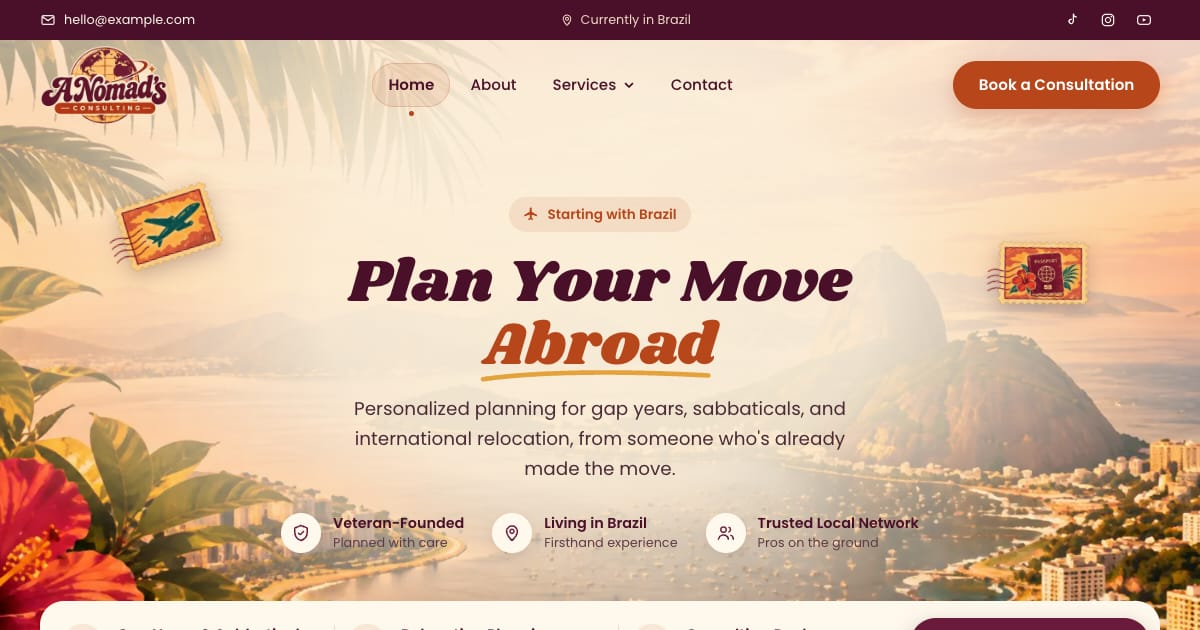
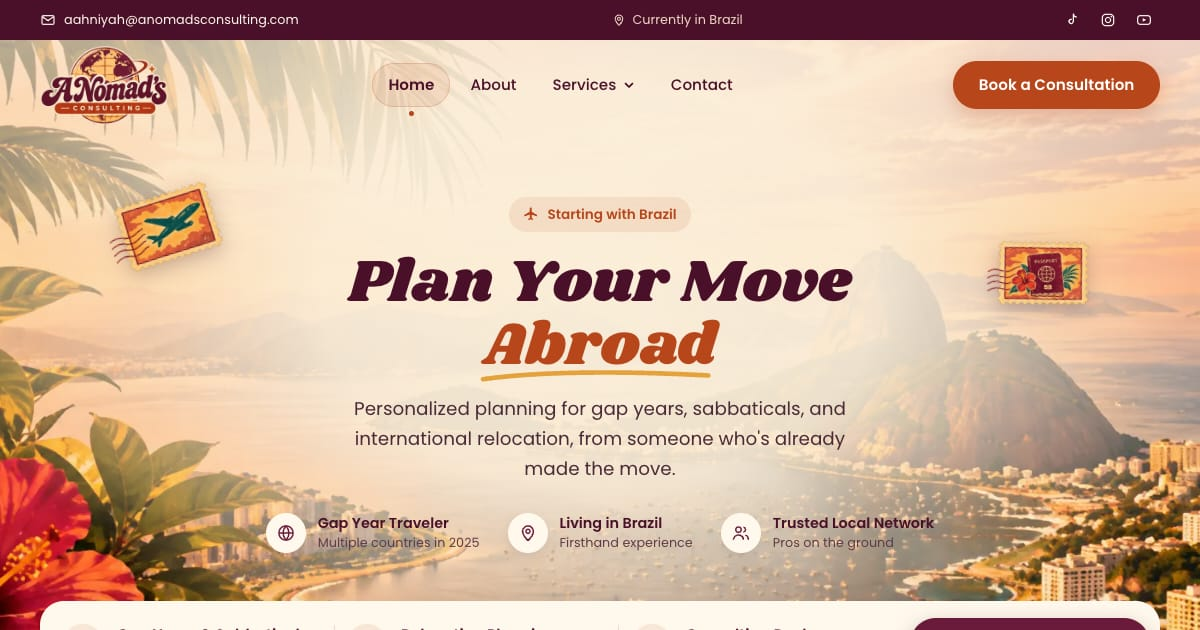
Replace Veteran-Founded trust point; refresh link preview image

Changed region(s): [[0.2158, 0.8143, 0.7708, 0.8746], [0.0617, 0.0, 0.2467, 0.0603], [0.4933, 0.0, 0.6167, 0.0603]]

diff --git a/index.html b/index.html
@@ -155,9 +155,9 @@
                     <ul class="hero__trust" data-reveal="up" data-reveal-delay="3">
                         <li class="hero__trust-item">
                             <span class="hero__trust-icon" aria-hidden="true">
-                                <svg width="20" height="20" viewBox="0 0 24 24"><path d="M12 3 4.5 6v5.5c0 4.6 3.2 8.4 7.5 9.5 4.3-1.1 7.5-4.9 7.5-9.5V6z" fill="none" stroke="currentColor" stroke-width="1.8" stroke-linejoin="round"/><path d="m8.8 12 2.2 2.2 4.2-4.4" fill="none" stroke="currentColor" stroke-width="1.8" stroke-linecap="round" stroke-linejoin="round"/></svg>
+                                <svg width="20" height="20" viewBox="0 0 24 24"><circle cx="12" cy="12" r="8.5" fill="none" stroke="currentColor" stroke-width="1.8"/><path d="M3.5 12h17M12 3.5c2.4 2.4 3.5 5.3 3.5 8.5s-1.1 6.1-3.5 8.5c-2.4-2.4-3.5-5.3-3.5-8.5S9.6 5.9 12 3.5z" fill="none" stroke="currentColor" stroke-width="1.8"/></svg>
                             </span>
-                            <span><strong>Veteran-Founded</strong>Planned with care</span>
+                            <span><strong>Gap Year Traveler</strong>Multiple countries in 2025</span>
                         </li>
                         <li class="hero__trust-item">
                             <span class="hero__trust-icon" aria-hidden="true">
